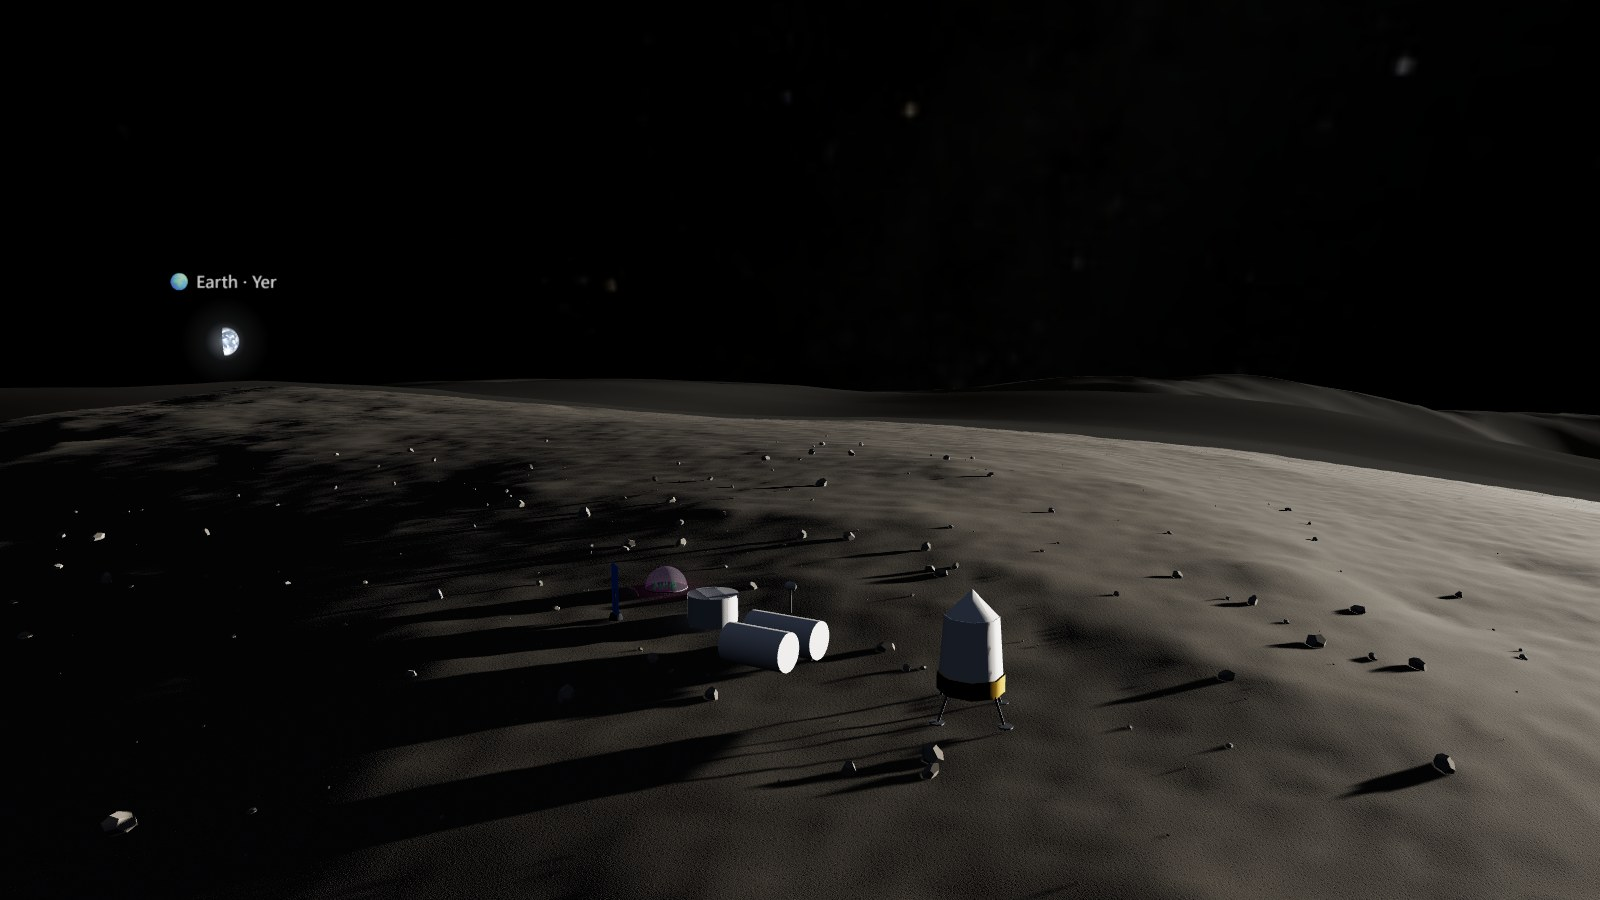
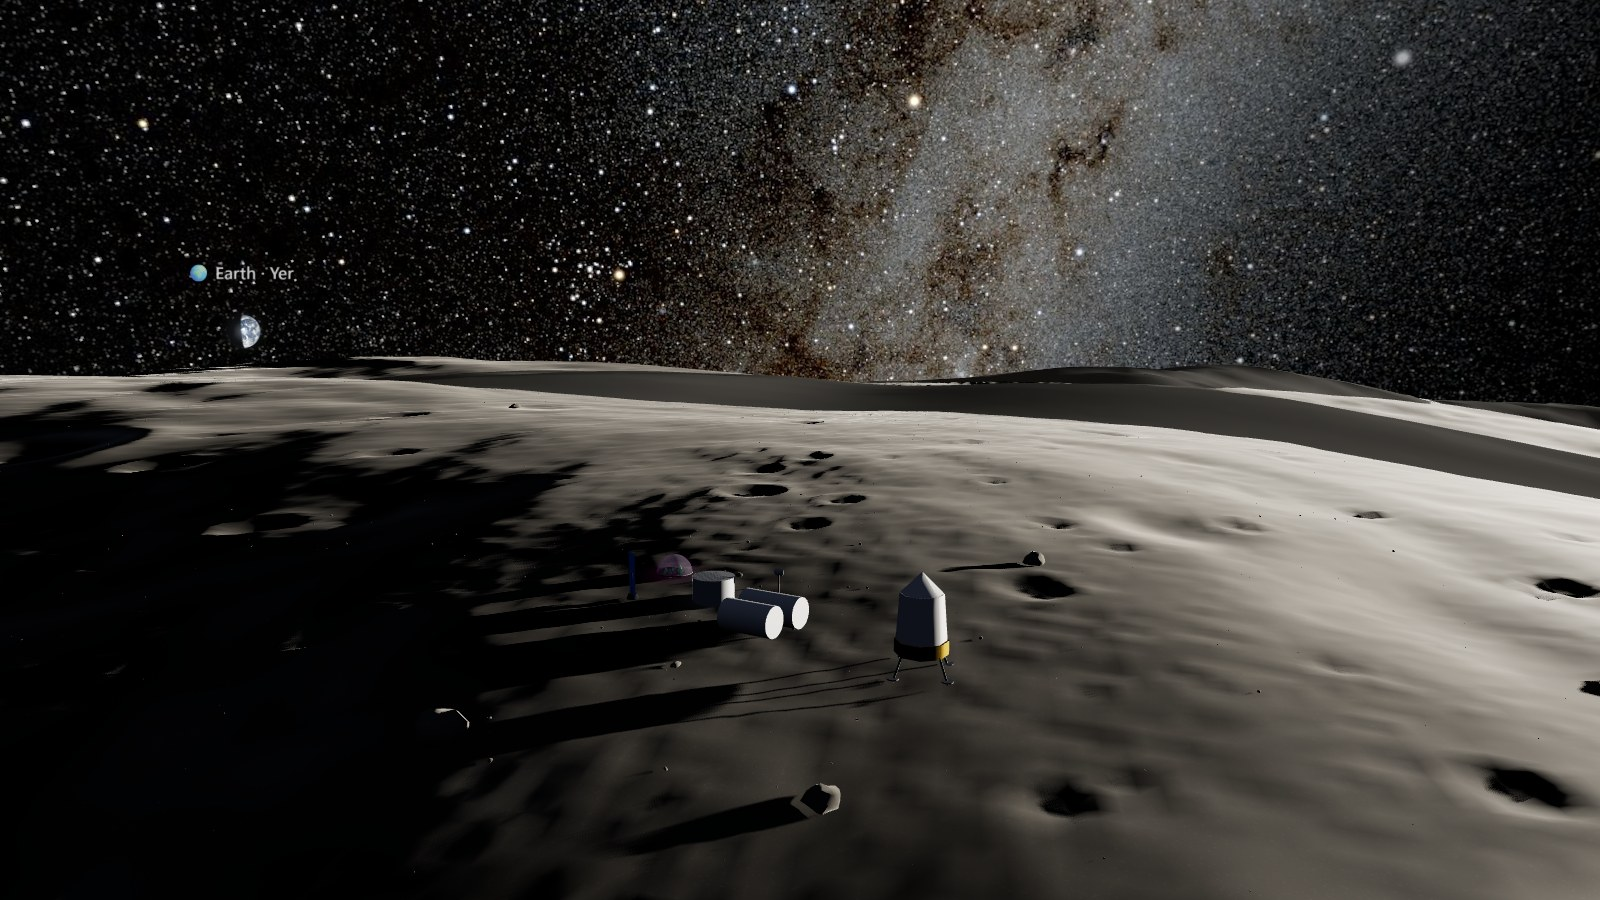
Story: the REAL Artemis I night launch replaces the illustrated rocket
- Shot 4 ('You have trained for years, cadet...') is now four NASA photos of
  the Artemis I launch (ignition at the pad, liftoff, the reflection in the
  water, the ascent) with dissolves, a slow push-in and flickering flame
  light; NASA/ESA insignia on the rocket retouched out; credit NASA/Joel
  Kowsky, NASA/Bill Ingalls. Same on the projector and in VR
- The 3D pad/rocket scene is removed from the story player
- Phone still of the Moon shot re-rendered from the new real terrain;
  credits updated (LOLA + LROC 5 m, Gemini TTS)

diff --git a/src/shared/storyFrames.ts b/src/shared/storyFrames.ts
@@ -7,7 +7,7 @@
 import { STORY } from '../audio/lines';
 import type { Lang } from './types';
 
-export type ShotKind = 'earthrise' | 'bootprint' | 'moon3d' | 'pad3d' | 'sun' | 'title';
+export type ShotKind = 'earthrise' | 'bootprint' | 'moon3d' | 'launch' | 'sun' | 'title';
 export interface Shot {
   kind: ShotKind;
   line: string;
@@ -17,10 +17,15 @@ export interface Shot {
 export const STORY_SHOTS: Shot[] = [
   { kind: 'earthrise', line: 'story1', min: 5, credit: { en: 'Apollo 8 "Earthrise", 1968 · NASA (AS08-14-2383)', az: 'Apollo 8 "Yerin doğuşu", 1968 · NASA (AS08-14-2383)' } },
   { kind: 'bootprint', line: 'story2', min: 5, credit: { en: 'Apollo 11 bootprint, 1969 · NASA (AS11-40-5878)', az: 'Apollo 11 ayaq izi, 1969 · NASA (AS11-40-5878)' } },
-  { kind: 'moon3d', line: 'story3', min: 6.5, credit: { en: 'Real terrain of Nobile Rim 1, Moon south pole · NASA LRO LOLA', az: 'Nobile Rim 1-in real relyefi, Ayın cənub qütbü · NASA LRO LOLA' } },
-  { kind: 'pad3d', line: 'story4', min: 5, credit: { en: 'AstroVR rocket (illustration)', az: 'AstroVR raketi (illüstrasiya)' } },
+  { kind: 'moon3d', line: 'story3', min: 6.5, credit: { en: 'Real terrain of Nobile Rim 1, Moon south pole · NASA LRO (LOLA + LROC, 5 m)', az: 'Nobile Rim 1-in real relyefi, Ayın cənub qütbü · NASA LRO (LOLA + LROC, 5 m)' } },
+  {
+    kind: 'launch',
+    line: 'story4',
+    min: 6,
+    credit: { en: 'Artemis I launch, 16 Nov 2022 · NASA/Joel Kowsky, NASA/Bill Ingalls', az: 'Artemis I-in startı, 16 noyabr 2022 · NASA/Joel Kowsky, NASA/Bill Ingalls' },
+  },
   { kind: 'sun', line: 'story5', min: 4.5, credit: { en: 'The real flare · NASA SDO, 11 May 2024, 01:29 UTC', az: 'Real alov · NASA SDO, 11 may 2024, 01:29 UTC' } },
-  { kind: 'title', line: 'story6', min: 5.5, credit: { en: 'Real NASA data · AI voice (OpenAI TTS) · music synthesized in code', az: 'Real NASA datası · AI səs (OpenAI TTS) · musiqi kodla sintez olunub' } },
+  { kind: 'title', line: 'story6', min: 5.5, credit: { en: 'Real NASA data · AI voice (Gemini TTS) · music synthesized in code', az: 'Real NASA datası · AI səs (Gemini TTS) · musiqi kodla sintez olunub' } },
 ];
 
 export interface Timeline {
@@ -60,14 +65,18 @@ export function loadImage(src: string): Promise<HTMLImageElement> {
 const ease = (u: number) => u * u * (3 - 2 * u);
 const FADE = 0.45;
 
-type Img = 'earthrise' | 'bootprint' | 'sun' | 'stars' | 'moonStill' | 'padStill';
+type Img = 'earthrise' | 'bootprint' | 'sun' | 'stars' | 'moonStill' | 'launch1' | 'launch2' | 'launch3' | 'launch4';
 const SRC: Record<Img, string> = {
   earthrise: '/images/story-earthrise.jpg',
   bootprint: '/images/story-bootprint.jpg',
   sun: '/images/story-sdo-0304.jpg',
   stars: '/textures/starmap.jpg',
   moonStill: '/images/story-moon.jpg',
-  padStill: '/images/story-pad.jpg',
+  // REAL Artemis I night launch (NASA photos; NASA/ESA insignia on the rocket retouched out): ignition → liftoff → ascent
+  launch1: '/images/story-launch-1.jpg',
+  launch2: '/images/story-launch-2.jpg',
+  launch3: '/images/story-launch-3.jpg',
+  launch4: '/images/story-launch-4.jpg',
 };
 
 /**
@@ -93,7 +102,8 @@ export class StoryCanvas {
 
   async load(stills: boolean) {
     // the phone skips the 4k star map (memory); its title card draws a light procedural star field instead
-    const keys: Img[] = stills ? ['earthrise', 'bootprint', 'sun', 'moonStill', 'padStill'] : ['earthrise', 'bootprint', 'sun', 'stars'];
+    const launch: Img[] = ['launch1', 'launch2', 'launch3', 'launch4'];
+    const keys: Img[] = stills ? ['earthrise', 'bootprint', 'sun', 'moonStill', ...launch] : ['earthrise', 'bootprint', 'sun', 'stars', ...launch];
     const imgs = await Promise.all(keys.map((k) => loadImage(SRC[k]).catch(() => null)));
     keys.forEach((k, i) => {
       if (imgs[i]) this.img[k] = imgs[i]!;
@@ -104,6 +114,34 @@ export class StoryCanvas {
     this.g.globalAlpha = 1;
     this.g.fillStyle = '#000';
     this.g.fillRect(0, 0, this.W, this.H);
+  }
+
+  /** the real Artemis I night launch: four NASA photos with cross-dissolves, a slow push-in and flickering flame light */
+  private launch(u: number, local: number) {
+    const { g, W, H } = this;
+    const pics = [this.img.launch1, this.img.launch2, this.img.launch3, this.img.launch4];
+    const focus: [number, number][] = [[0.6, 0.55], [0.8, 0.45], [0.5, 0.45], [0.75, 0.3]];
+    const n = pics.length;
+    const x = u * n;
+    const k = Math.min(n - 1, Math.floor(x));
+    const f = x - k;
+    const draw = (i: number, alpha: number, t: number) => {
+      if (alpha <= 0) return;
+      g.globalAlpha = alpha;
+      this.photo(pics[i], focus[i][0], focus[i][1], 1.04 + 0.1 * t);
+      g.globalAlpha = 1;
+    };
+    draw(k, 1, f);
+    if (f > 0.72 && k + 1 < n) draw(k + 1, (f - 0.72) / 0.28, 0); // dissolve into the next photo
+    // the flame light breathes (like the real liftoff: 39 MN of thrust)
+    const flick = 0.06 + 0.06 * Math.sin(local * 23) * Math.sin(local * 7.3) + (k === 0 ? 0.08 * Math.min(1, f * 3) : 0);
+    g.globalCompositeOperation = 'lighter';
+    const grd = g.createRadialGradient(W * 0.6, H * 0.85, 0, W * 0.6, H * 0.85, W * 0.7);
+    grd.addColorStop(0, `rgba(255,170,90,${Math.max(0, flick)})`);
+    grd.addColorStop(1, 'rgba(255,170,90,0)');
+    g.fillStyle = grd;
+    g.fillRect(0, 0, W, H);
+    g.globalCompositeOperation = 'source-over';
   }
 
   /** Index of the shot at time `el` (−1 before the first). */
@@ -136,13 +174,15 @@ export class StoryCanvas {
       case 'sun':
         this.sun(u, local);
         break;
-      case 'moon3d':
-      case 'pad3d': {
+      case 'moon3d': {
         const live = draw3D?.(shot.kind, u, local);
         if (live) g.drawImage(live, 0, 0, W, H);
-        else this.photo(shot.kind === 'moon3d' ? this.img.moonStill : this.img.padStill, 0.5, shot.kind === 'moon3d' ? 0.62 : 0.4, 1.0 + 0.14 * ease(u));
+        else this.photo(this.img.moonStill, 0.5, 0.62, 1.0 + 0.14 * ease(u));
         break;
       }
+      case 'launch':
+        this.launch(u, local);
+        break;
       case 'title':
         this.title(u, local, lang);
         break;

diff --git a/src/control/story/StoryPlayer.ts b/src/control/story/StoryPlayer.ts
@@ -1,6 +1,6 @@
 /**
  * Campaign-style story intro (~35 s) for the projector: real NASA images (Apollo 8 Earthrise, Apollo 11 bootprint,
- * SDO's view of the real 11 May 2024 flare), the real south-pole terrain in 3D, our rocket at dawn, and the title.
+ * SDO's view of the real 11 May 2024 flare), the real south-pole terrain in 3D, the REAL Artemis I night launch (NASA photos), and the title.
  * Frames are drawn by the shared StoryCanvas (also used by the phone's in-capsule cinema screen); here the two 3D
  * shots are rendered live with WebGL. The canvas + sound can be recorded into a video file.
  * Narration: pre-generated TTS files (public/audio/{lang}/storyN.mp3) scheduled sample-accurately with Web Audio;
@@ -10,7 +10,6 @@ import * as THREE from 'three';
 import available from '../../audio/available.json';
 import { Score } from '../../audio/score';
 import { createMoonScene, type MoonScene } from '../../scene/createMoonScene';
-import { createLaunchTower, createPadGround, createRocket, createSkyDome } from '../../scene/rocket';
 import { NOBILE_MAY2024 as SCENARIO } from '../../shared/scenario';
 import { STORY_SHOTS as SHOTS, StoryCanvas, storyLineAt, storyTimeline, type ShotKind, type Timeline } from '../../shared/storyFrames';
 import { sharedNow } from '../../shared/clock';
@@ -42,7 +41,6 @@ export class StoryPlayer {
   private renderer: THREE.WebGLRenderer;
   private camera = new THREE.PerspectiveCamera(50, W / H, 0.5, 4000);
   private moon: MoonScene | null = null;
-  private pad = new THREE.Scene();
   private ctx: AudioContext;
   private master: GainNode;
   private score: Score;
@@ -54,7 +52,6 @@ export class StoryPlayer {
   private raf = 0;
   private stopped = false;
   private timers: number[] = [];
-  private vapor: THREE.Sprite[] = [];
   private els: HTMLAudioElement[] = [];
 
   constructor(private opts: StoryOptions) {
@@ -79,7 +76,6 @@ export class StoryPlayer {
     void this.ctx.resume();
     this.sc.clear();
     await this.sc.load(false);
-    this.buildPad();
     this.moon = createMoonScene(SCENARIO, 'low');
     const lang = this.opts.lang;
     return Promise.all(
@@ -210,7 +206,7 @@ export class StoryPlayer {
   }
 
   /** Debug: render a 3D shot at progress u and return it as a JPEG data URL (used to make the phone's stills). */
-  async still(kind: 'moon3d' | 'pad3d', u: number): Promise<string> {
+  async still(kind: 'moon3d', u: number): Promise<string> {
     if (!this.moon) await this.prepare();
     this.render3D(kind, u, u * 6);
     return this.renderer.domElement.toDataURL('image/jpeg', 0.88);
@@ -218,7 +214,7 @@ export class StoryPlayer {
 
   /* ------------------------------------------------------------------ 3D shots */
 
-  private render3D(kind: ShotKind, u: number, local: number): HTMLCanvasElement | null {
+  private render3D(kind: ShotKind, u: number, _local: number): HTMLCanvasElement | null {
     const e = ease(u);
     const cam = this.camera;
     if (kind === 'moon3d' && this.moon) {
@@ -230,60 +226,6 @@ export class StoryPlayer {
       this.renderer.render(this.moon.scene, cam);
       return this.renderer.domElement;
     }
-    if (kind === 'pad3d') {
-      cam.fov = 42;
-      cam.position.set(THREE.MathUtils.lerp(-70, -42, e), THREE.MathUtils.lerp(6, 16, e), THREE.MathUtils.lerp(120, 78, e));
-      cam.lookAt(0, THREE.MathUtils.lerp(48, 70, e), 0);
-      cam.updateProjectionMatrix();
-      for (const s of this.vapor) {
-        const d = s.userData as { y0: number; a: number; sp: number };
-        const k = (local * d.sp * 0.25 + d.a) % 1;
-        s.position.set(Math.cos(d.a) * (4.6 + k * 6), d.y0 - k * 6, Math.sin(d.a) * (4.6 + k * 6));
-        s.scale.setScalar(4 + k * 10);
-        (s.material as THREE.SpriteMaterial).opacity = 0.2 * (1 - k);
-      }
-      this.renderer.render(this.pad, cam);
-      return this.renderer.domElement;
-    }
     return null;
-  }
-
-  private buildPad() {
-    const sky = createSkyDome(1800, true);
-    this.pad.add(sky.mesh);
-    this.pad.add(createPadGround(1700));
-    this.pad.add(createRocket());
-    const tower = createLaunchTower(100);
-    tower.position.x = 14;
-    this.pad.add(tower);
-    const sun = new THREE.DirectionalLight(0xffc48a, 3.2);
-    sun.position.set(-300, 60, -200);
-    sun.castShadow = true;
-    Object.assign(sun.shadow.camera, { left: -80, right: 80, top: 120, bottom: -10, near: 1, far: 900 });
-    sun.shadow.mapSize.set(2048, 2048);
-    // cool front fill from the camera side so the rocket is not a silhouette
-    const fill = new THREE.DirectionalLight(0x9fb4ff, 1.4);
-    fill.position.set(-120, 40, 260);
-    this.pad.add(sun, fill, new THREE.HemisphereLight(0x9cb8ff, 0x3a2a1c, 1.0));
-    const c = document.createElement('canvas');
-    c.width = c.height = 128;
-    const gg = c.getContext('2d')!;
-    const grd = gg.createRadialGradient(64, 64, 2, 64, 64, 64);
-    grd.addColorStop(0, 'rgba(255,240,210,1)');
-    grd.addColorStop(0.25, 'rgba(255,170,90,0.6)');
-    grd.addColorStop(1, 'rgba(255,120,40,0)');
-    gg.fillStyle = grd;
-    gg.fillRect(0, 0, 128, 128);
-    const glowTex = new THREE.CanvasTexture(c);
-    const glow = new THREE.Sprite(new THREE.SpriteMaterial({ map: glowTex, blending: THREE.AdditiveBlending, depthWrite: false, transparent: true }));
-    glow.position.set(-1300, 120, -900);
-    glow.scale.set(700, 700, 1);
-    this.pad.add(glow);
-    for (let i = 0; i < 14; i++) {
-      const s = new THREE.Sprite(new THREE.SpriteMaterial({ map: glowTex, color: 0xffffff, opacity: 0.18, transparent: true, depthWrite: false }));
-      s.userData = { y0: 8 + Math.random() * 50, a: Math.random() * Math.PI * 2, sp: 0.4 + Math.random() * 0.8 };
-      this.vapor.push(s);
-      this.pad.add(s);
-    }
   }
 }
